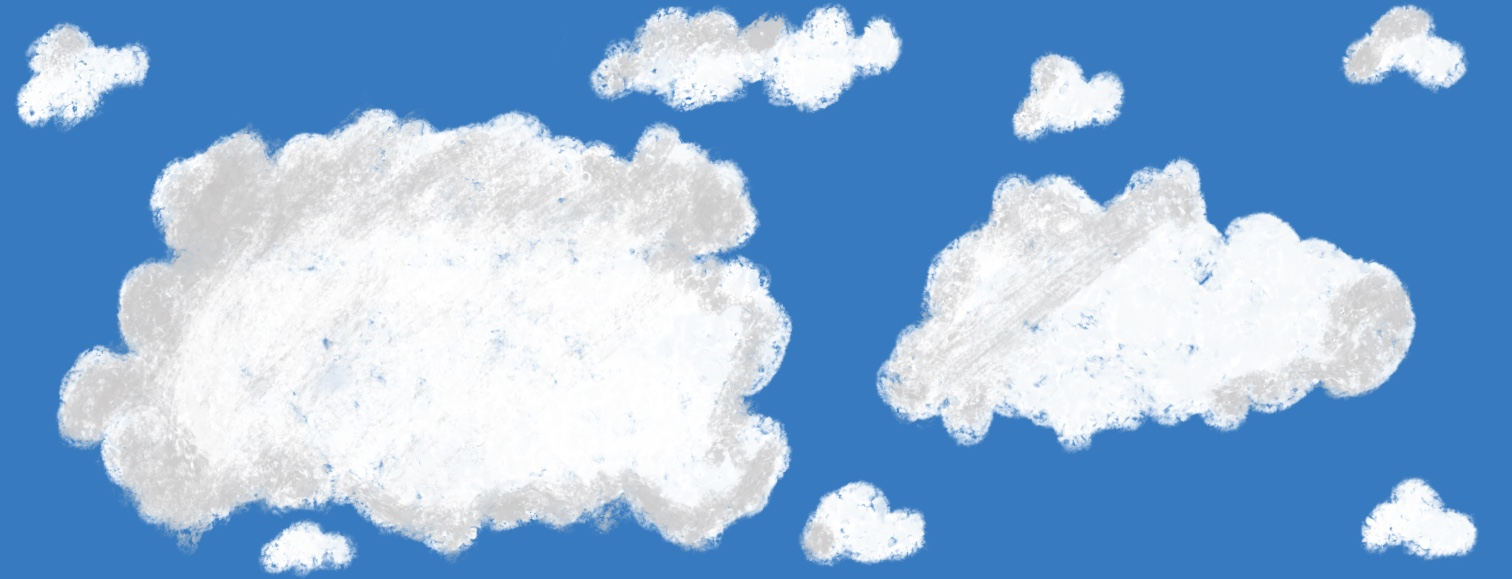
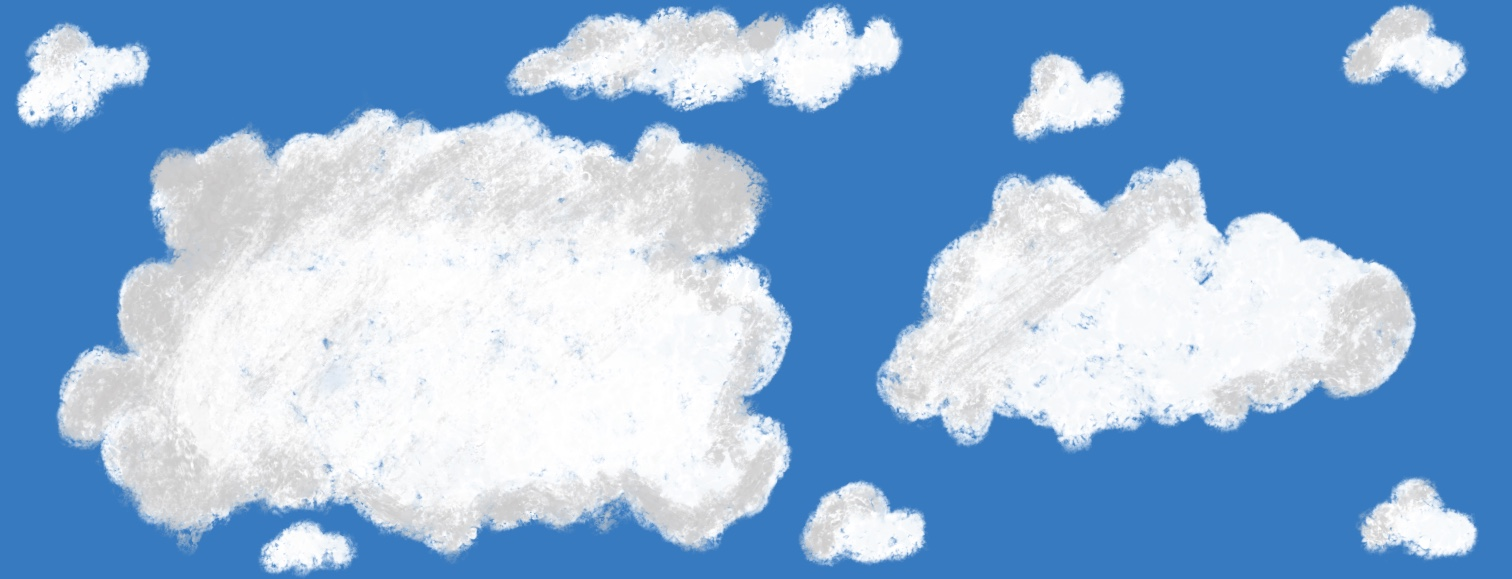
crashing out

diff --git a/css/style.css b/css/style.css
@@ -47,35 +47,41 @@ nav, nav a{
 
 
 .josh{
-    background-image: url(../img/quote.jpg);
+    background-image: url(../img/bio.jpg);
     display: flex;
     flex-direction: row;
     flex-wrap: wrap;
-    justify-content: space-evenly;
+    justify-content: flex-start;
     align-items: center;
-    padding-bottom: 40px;
+    background-position: fixed;
 }
     h1{
     display: flex;
     justify-content: center;
     padding-top: 30px;
     flex: 100%;
-    padding-bottom: 50px;
     
     }
 
     #bio {
         display: flex;
-        width: 40%;
-        margin: 20px;
+        width: 45%;
+        margin: 60px;
+        margin-left: 150px;
         text-align: center;
+
+        
+    
     }
 
     #quote{
       
         display: flex;
-        width: 30%;
+        width: 23%;
         text-align: center;
+        margin: 100px;
+        padding-bottom: 50px;
+        padding-left: 30px;
     
     }
 
@@ -86,7 +92,7 @@ nav, nav a{
 
 
     footer{
-        background-image: url(/img/foot.jpg);
+        background-image: url(../img/foot.jpg);
         height: 100%;
         font-size: 30px;
         display: flex;
